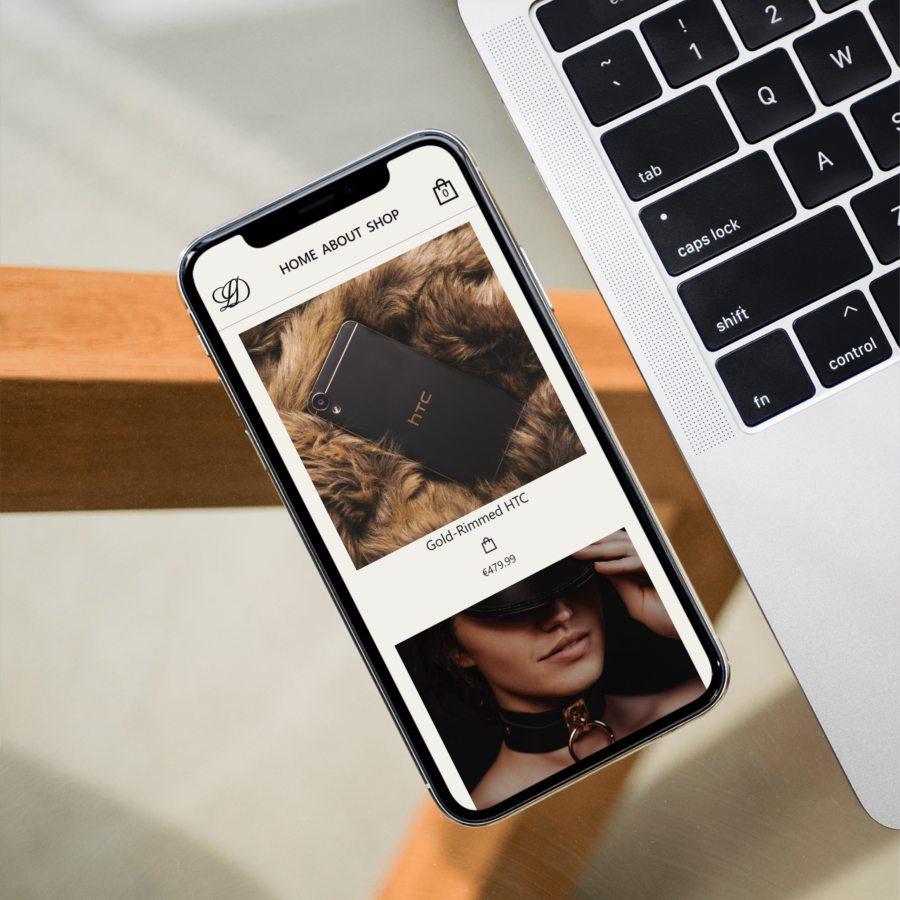
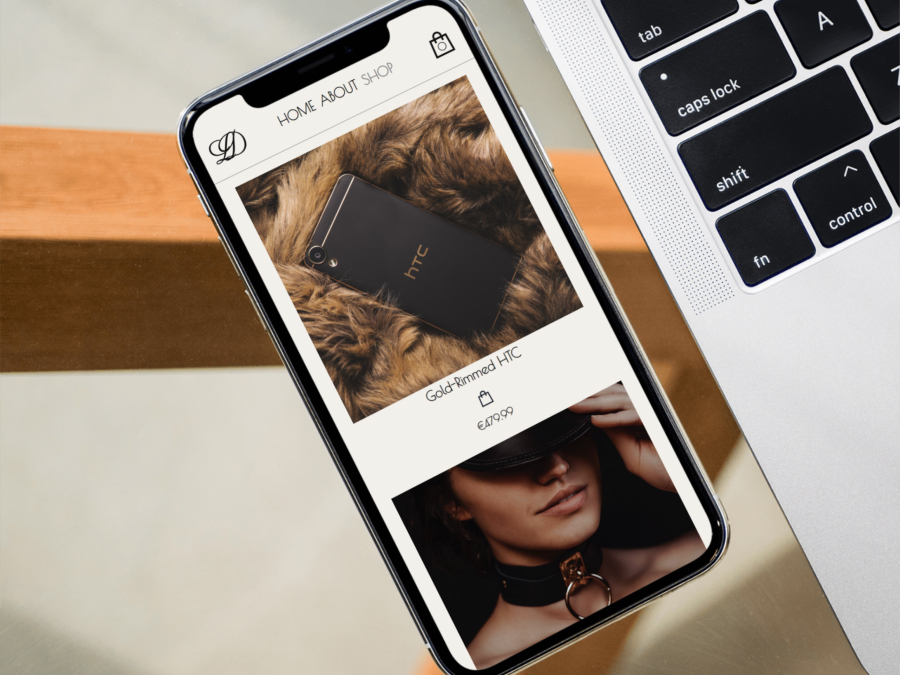
started updating assets for Le Dimanche

diff --git a/src/pages/Brand.jsx b/src/pages/Brand.jsx
@@ -7,13 +7,13 @@ import brandComponents from "/images/BRAND/BrandComponents.svg";
 import brandColorPalette from "/images/BRAND/BrandColorPalette.svg";
 import Header from "../components/Header";
 import Footer from "../components/Footer";
-import brandHeroImg from "/images/BRAND/mockups/BrandHeroImg.jpg";
-import brandMockups from "/images/BRAND/mockups/BrandMockups.png";
-import brandiPhoneToggleImage from "/images/BRAND/mockups/Brand-iPhoneToggleMockup.jpg";
-import brandiMacImage from "/images/BRAND/mockups/Brand-iMacMockup.jpg";
+/* import brandHeroImg from "/images/BRAND/mockups/BrandHeroImg.jpg";
+ */ import brandMockups from "/images/BRAND/mockups/BrandMockups.png";
+/* import brandiPhoneToggleImage from "/images/BRAND/mockups/Brand-iPhoneToggleMockup.jpg";
+ */ /* import brandiMacImage from "/images/BRAND/mockups/Brand-iMacMockup.jpg";
 import brandMacBookImage from "/images/BRAND/mockups/Brand-MacbookMockup.jpg";
 import brandiPadImage from "/images/BRAND/mockups/Brand-iPadMockup.jpg";
-import brandiPad2Image from "/images/BRAND/mockups/Brand-iPad2Mockup.jpg";
+import brandiPad2Image from "/images/BRAND/mockups/Brand-iPad2Mockup.jpg"; */
 import CTA from "../components/CTA";
 import ScrollToTop from "../components/ScrollToTop";
 

diff --git a/src/pages/LeDimanche.jsx b/src/pages/LeDimanche.jsx
@@ -156,14 +156,14 @@ const LeDimanche = () => {
               <m.span
                 initial={{ opacity: 0 }}
                 whileInView={{ opacity: 1 }}
-                id="CryptoverseTypeface"
+                id="LeDimancheTypeface"
               >
-                Noto Sans
+                Poiret One
               </m.span>
               <m.div
                 initial={{ opacity: 0 }}
                 whileInView={{ opacity: 1 }}
-                id="CryptoverseTypeface"
+                id="LeDimancheTypeface"
                 className="TypefaceWeights"
               >
                 <m.span initial={{ opacity: 0 }} whileInView={{ opacity: 1 }}>
@@ -174,9 +174,8 @@ const LeDimanche = () => {
                   whileInView={{ opacity: 1 }}
                   className="TypefaceWeightsList"
                 >
-                  <li id="Crypto-Weight-200">02 Extra Light</li>⋅
-                  <li id="Crypto-Weight-300">03 Light</li>⋅
-                  <li id="Crypto-Weight-400">04 Regular</li>
+                  <li id="LeDimanche-Weight-400">04 Regular</li>⋅
+                  <li id="LeDimanche-Weight-600">06 Bold</li>
                 </m.ul>
               </m.div>
             </m.div>

diff --git a/src/pages/Cryptoverse.jsx b/src/pages/Cryptoverse.jsx
@@ -2,11 +2,11 @@ import { useEffect } from "react";
 import { motion as m } from "framer-motion";
 import Header from "../components/Header";
 import Footer from "../components/Footer";
-import cryptoverseHeroImg from "/images/Cryptoverse/mockups/CryptoverseHeroImg.jpg";
+/* import cryptoverseHeroImg from "/images/Cryptoverse/mockups/CryptoverseHeroImg.jpg";
 import cryptoverseiMacImage from "/images/Cryptoverse/mockups/iMacMockup.jpg";
 import cryptoverseHPImage from "/images/Cryptoverse/mockups/HPMockup.jpg";
 import cryptoverseiPadImages from "/images/Cryptoverse/mockups/iPadMockups.jpg";
-import cryptoverseiPhoneImage from "/images/Cryptoverse/mockups/iPhoneMockup.jpg";
+import cryptoverseiPhoneImage from "/images/Cryptoverse/mockups/iPhoneMockup.jpg"; */
 import CTA from "../components/CTA";
 import ScrollToTop from "../components/ScrollToTop";
 

diff --git a/src/scss/_components/_projectpage.scss b/src/scss/_components/_projectpage.scss
@@ -130,6 +130,12 @@
       #CalculatorTypeface {
         @extend #BrandTypeface;
       }
+      #LeDimancheTypeface {
+        font-family: "Poiret One", sans-serif;
+        &:first-child {
+          font-size: clamp(1.5rem, -3.781rem + 26.405vw, 20rem);
+        }
+      }
       .TypefaceWeights {
         display: flex;
         flex-direction: column;
@@ -231,6 +237,19 @@ $CalculatorWeights: (
 
 @each $key, $weight in $CalculatorWeights {
   #Calculator-Weight-#{ $weight } {
+    font-weight: $weight;
+  }
+}
+
+/****** LE DIMANCHE WEIGHTINGS ******/
+
+$LeDimancheWeights: (
+  weight1: 400,
+  weight2: 600,
+);
+
+@each $key, $weight in $LeDimancheWeights {
+  #LeDimanche-Weight-#{ $weight } {
     font-weight: $weight;
   }
 }

diff --git a/src/scss/_partials/_typography.scss b/src/scss/_partials/_typography.scss
@@ -150,3 +150,13 @@
   src: url(/fonts/NotoSans/NotoSans-Regular.woff2) format(woff2);
   font-display: swap;
 }
+
+/****** POIRET ONE - 400 REGULAR ******/
+
+@font-face {
+  font-family: "Poiret One";
+  font-weight: 400;
+  font-style: normal;
+  src: url(/fonts/Poiret_One/PoiretOne-Regular.woff2) format(woff2);
+  font-display: swap;
+}
